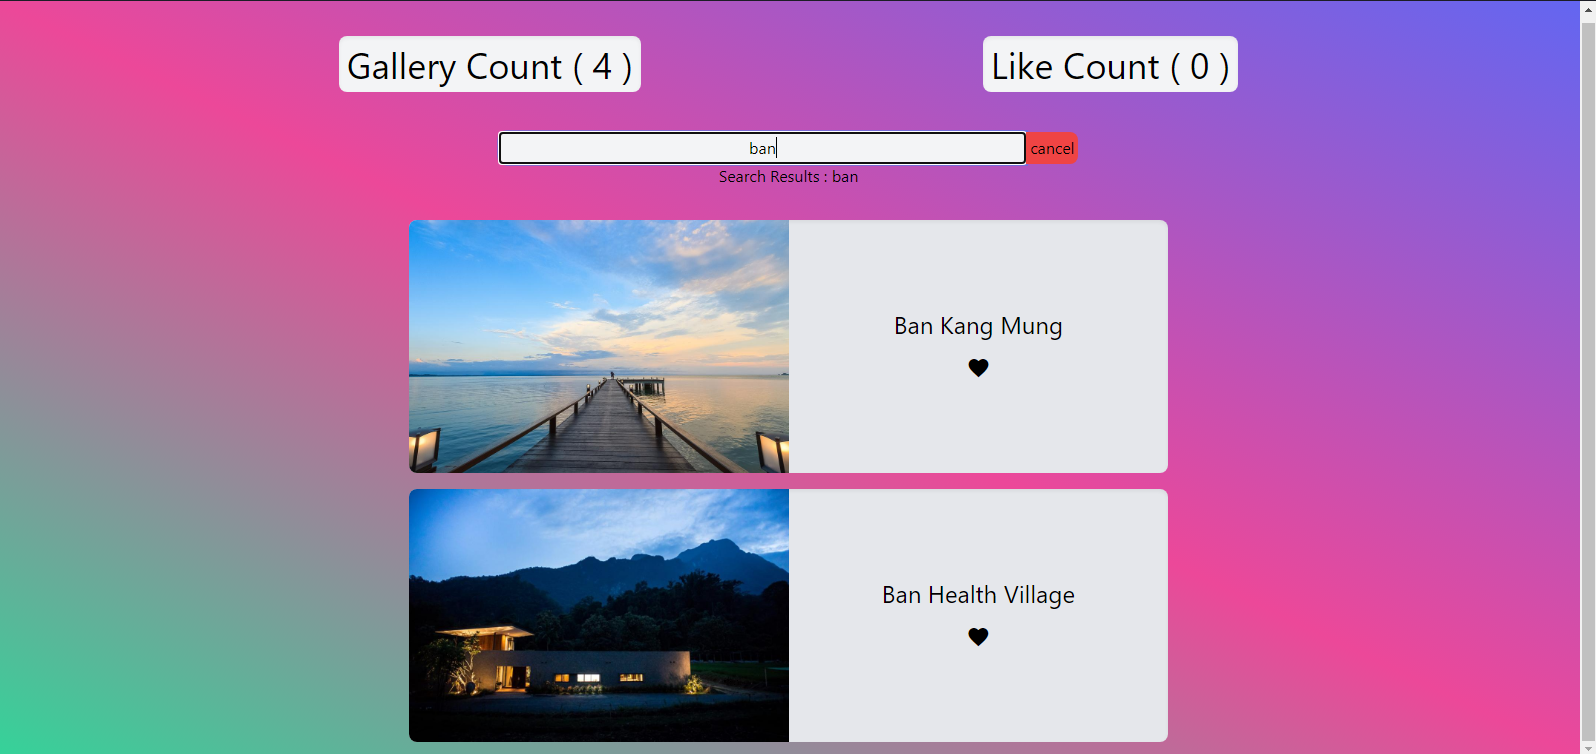
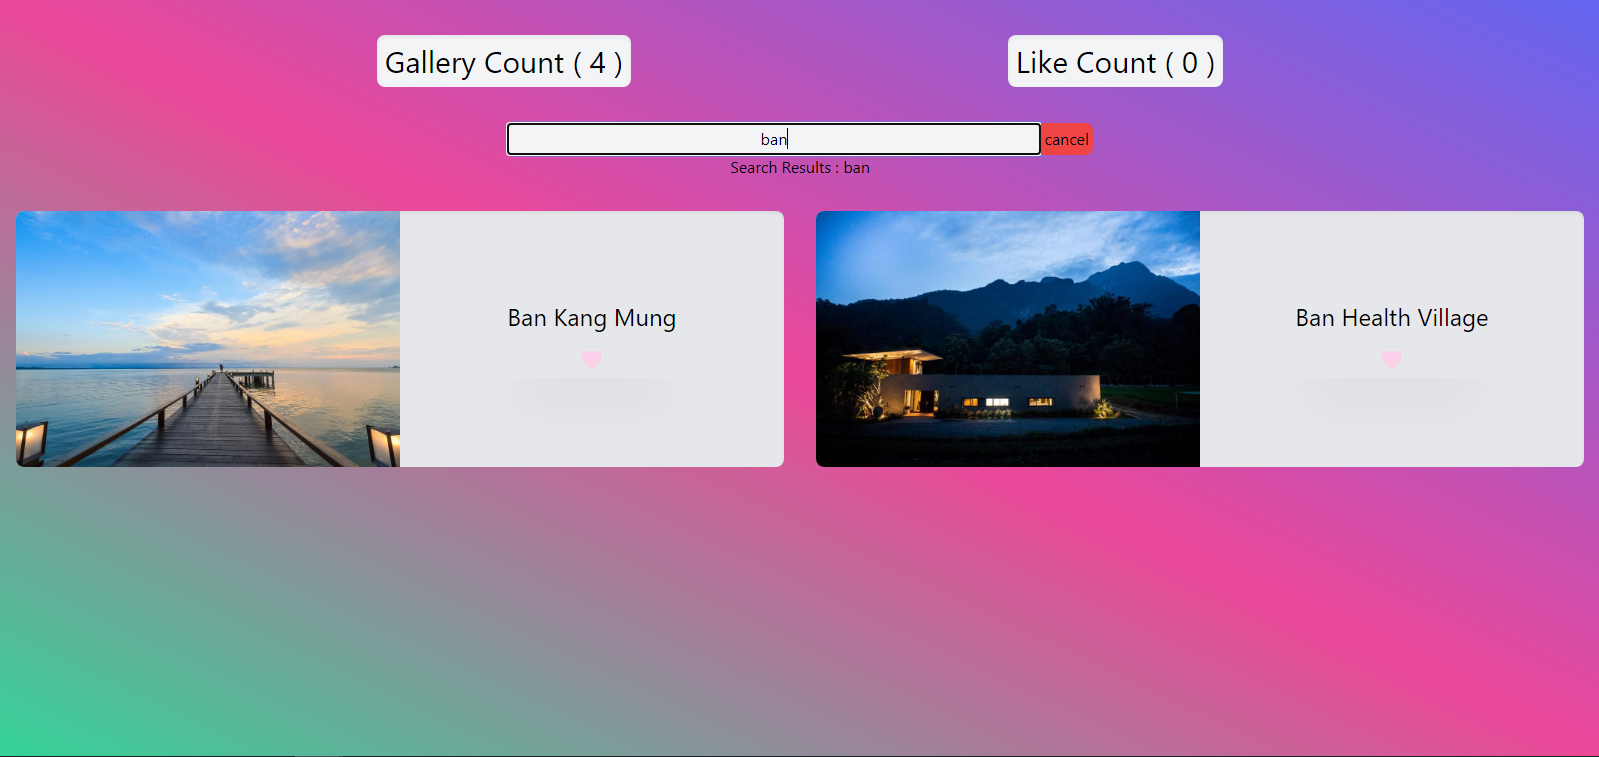
[Update] all

diff --git a/index.html b/index.html
@@ -31,7 +31,27 @@
 
 <body class="bg-fixed bg-gradient-to-tr from-green-400 via-pink-500 to-indigo-500">
 
-    <div id="app" class="w-full h-full ">
+    <div id="app" class="w-full h-full">
+        <div class="flex justify-center">
+        <div v-show="viewpic.showviewpic" class="flex justify-center text-center bg-black bg-opacity-80 py-28 px-80 fixed ">
+            <div class="w-3/4 ">
+                <div v-on:click="toggleviewoff()"
+                    class="cursor-pointer bg-red-500 rounded-t-lg hover:bg-red-300 transition duration-500">
+                    <span class="material-icons md-48">
+                        close
+                    </span>
+                </div>
+                <img class="" v-bind:src="viewpic.src">
+                <div v-on:click="togglelike(tempindex)" :class="[viewpic.like ? 'bg-pink-300 hover:bg-pink-400 rounded-b-lg cursor-pointer transition duration-500':'bg-gray-100 hover:bg-pink-400 rounded-b-lg cursor-pointer transition duration-500']">
+                    <p class="text-2xl overflow-clip z-1">
+                        <a v-show="viewpic.like" class="text-white"><i class="material-icons">favorite</i></a>
+                        {{viewpic.text}} 
+                        <a v-show="viewpic.like" class="text-white"><i class="material-icons">favorite</i></a>
+                    </p>
+                </div>
+            </div>
+        </div>
+    </div>
         <div class="">
             <div class="text-3xl text-center py-9 flex justify-evenly">
                 <h1 class="bg-gray-100 p-2 rounded-lg shadow-inner">Gallery Count ( {{countpic}} ) </h1>
@@ -53,24 +73,10 @@
                 </div>
             </div>
         </div>
+        
         <div class="grid justify-items-center space-y-4">
             <div v-show="havetext">Search Results : {{filterpic}}</div>
             <div v-show="haveResult" class="text-5xl bg-gray-100 p-2 rounded-lg shadow-inner">NO FOUND</div>
-
-            <div v-show="viewpic.showviewpic" class="flex justify-center text-center bg-black p-10 rounded-lg">
-                <div class="w-3/4">
-                    <div v-on:click="toggleviewoff()"
-                        class="cursor-pointer bg-red-500 rounded-t-lg hover:bg-red-300 transition duration-500">
-                        <span class="material-icons md-48">
-                            close
-                        </span>
-                    </div>
-                    <img class="" v-bind:src="viewpic.src">
-                    <div class="bg-gray-100 rounded-b-lg">
-                        <p class="text-2xl overflow-clip z-1">{{viewpic.text}}</p>
-                    </div>
-                </div>
-            </div>
 
             <div class=" grid grid-cols-2">
                 <ul v-for="(pic,index) in chosenpic">
@@ -84,7 +90,7 @@
                                 <p class="text-2xl overflow-clip z-1">{{pic.text}}</p>
                             </div>
                             <div v-on:click="togglelike(index)"
-                                :class="[pic.like ? 'text-white rounded-lg my-auto ' : 'my-auto rounded-lg hover:bg-pink-400' ]">
+                                :class="[pic.like ? 'text-white rounded-lg my-auto shadow-2xl' : 'text-pink-200 my-auto rounded-lg shadow-2xl hover:bg-pink-400' ]">
                                 <i class="material-icons">favorite</i>
                             </div>
                         </div>

diff --git a/main.js b/main.js
@@ -28,6 +28,7 @@ const app = {
     methods: {
         togglelike(index) {
             this.pics[index].like = !this.pics[index].like
+            this.viewpic.like = !this.viewpic.like
         },
         togglesearchon() {
             this.search.searchOn = !this.search.searchOn
@@ -38,19 +39,14 @@ const app = {
             this.searchtext = ''
         },
         toggleview(index) {
-            this.search.searchOn = !this.search.searchOn
             this.viewpic.src = this.pics[index].src
             this.viewpic.text = this.pics[index].text
             this.viewpic.like = this.pics[index].like
-            // this.showpic = !this.showpic
             this.viewpic.showviewpic = !this.viewpic.showviewpic
             this.tempindex = index
-
         },
         toggleviewoff() {
-            this.search.searchOn = !this.search.searchOn
             this.viewpic.showviewpic = !this.viewpic.showviewpic
-            // this.showpic = !this.showpic
         }
     },
     computed: {
